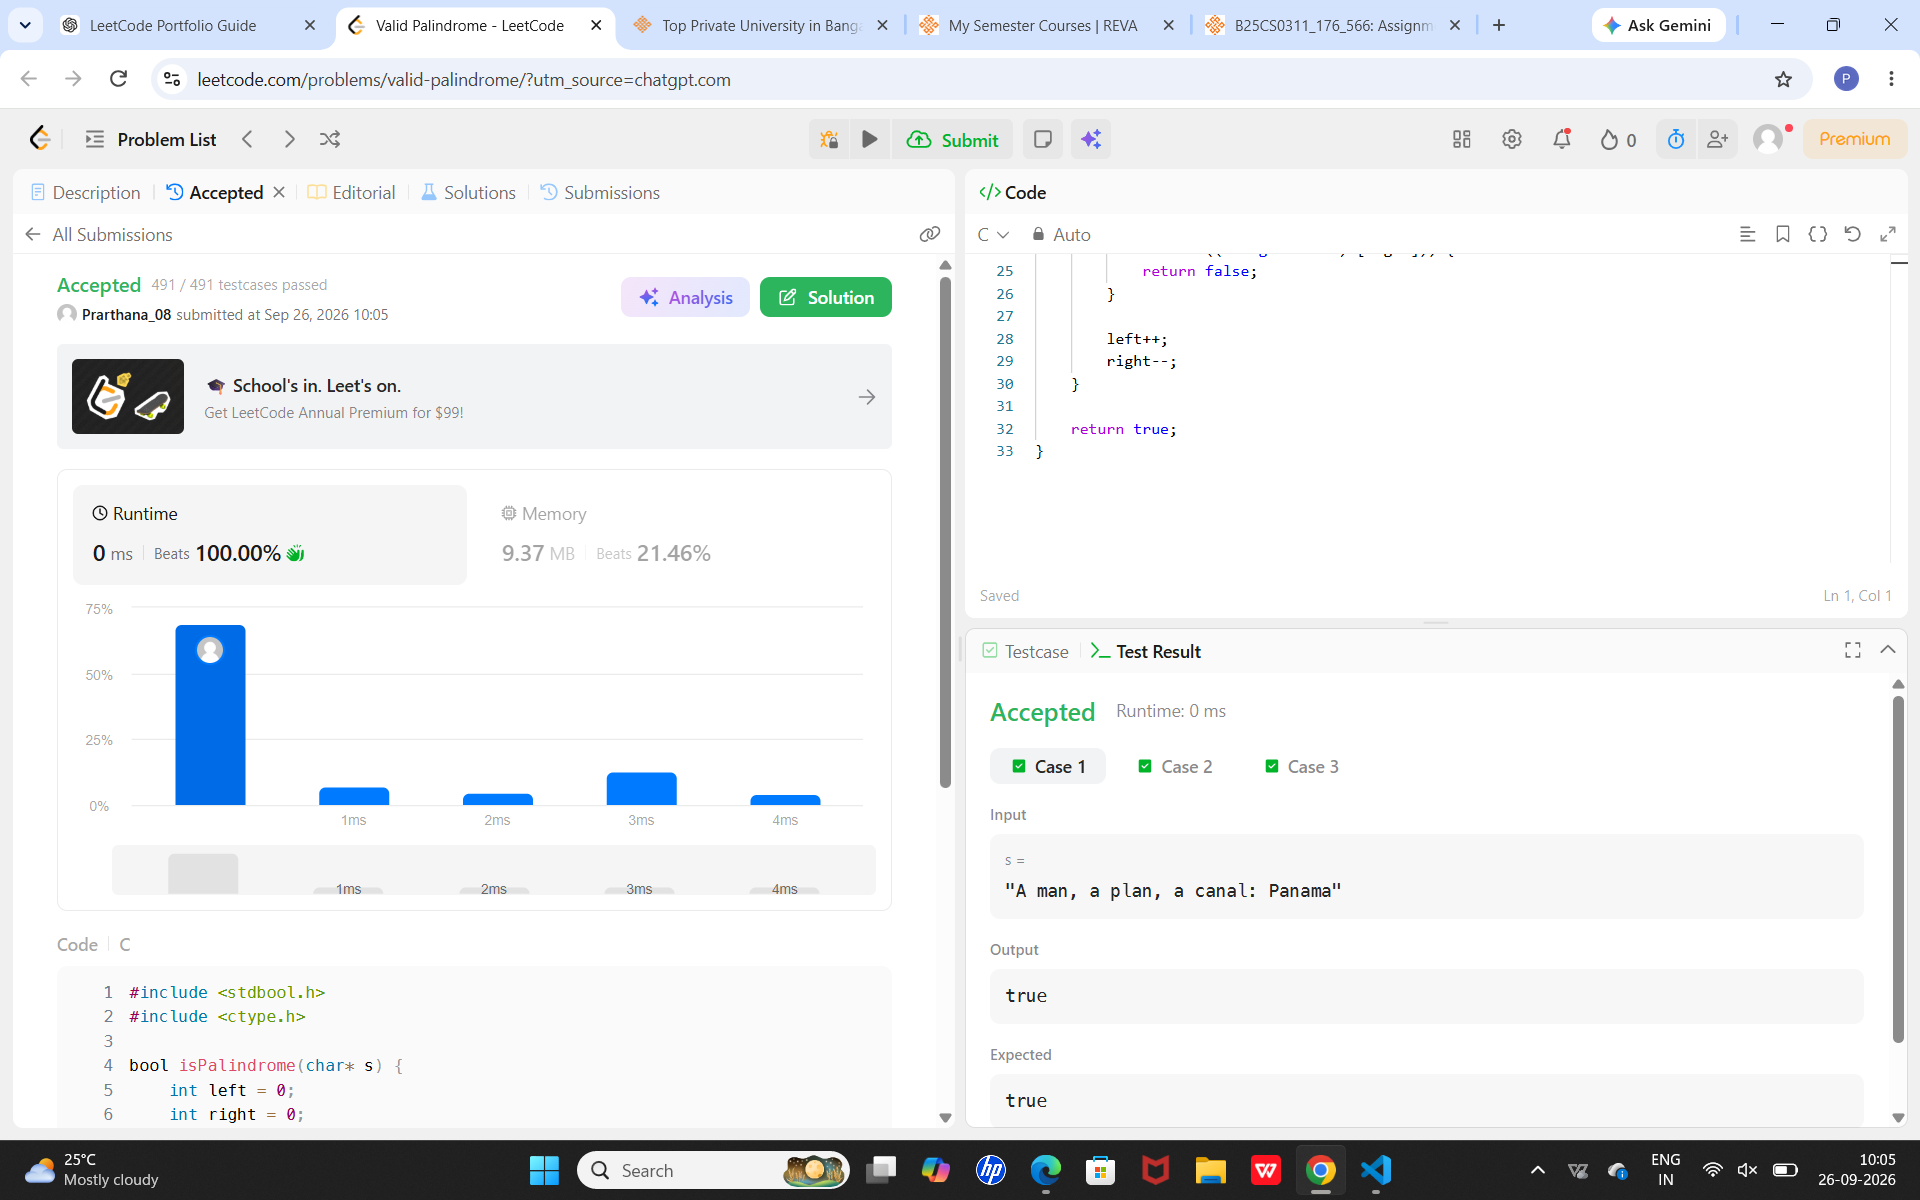
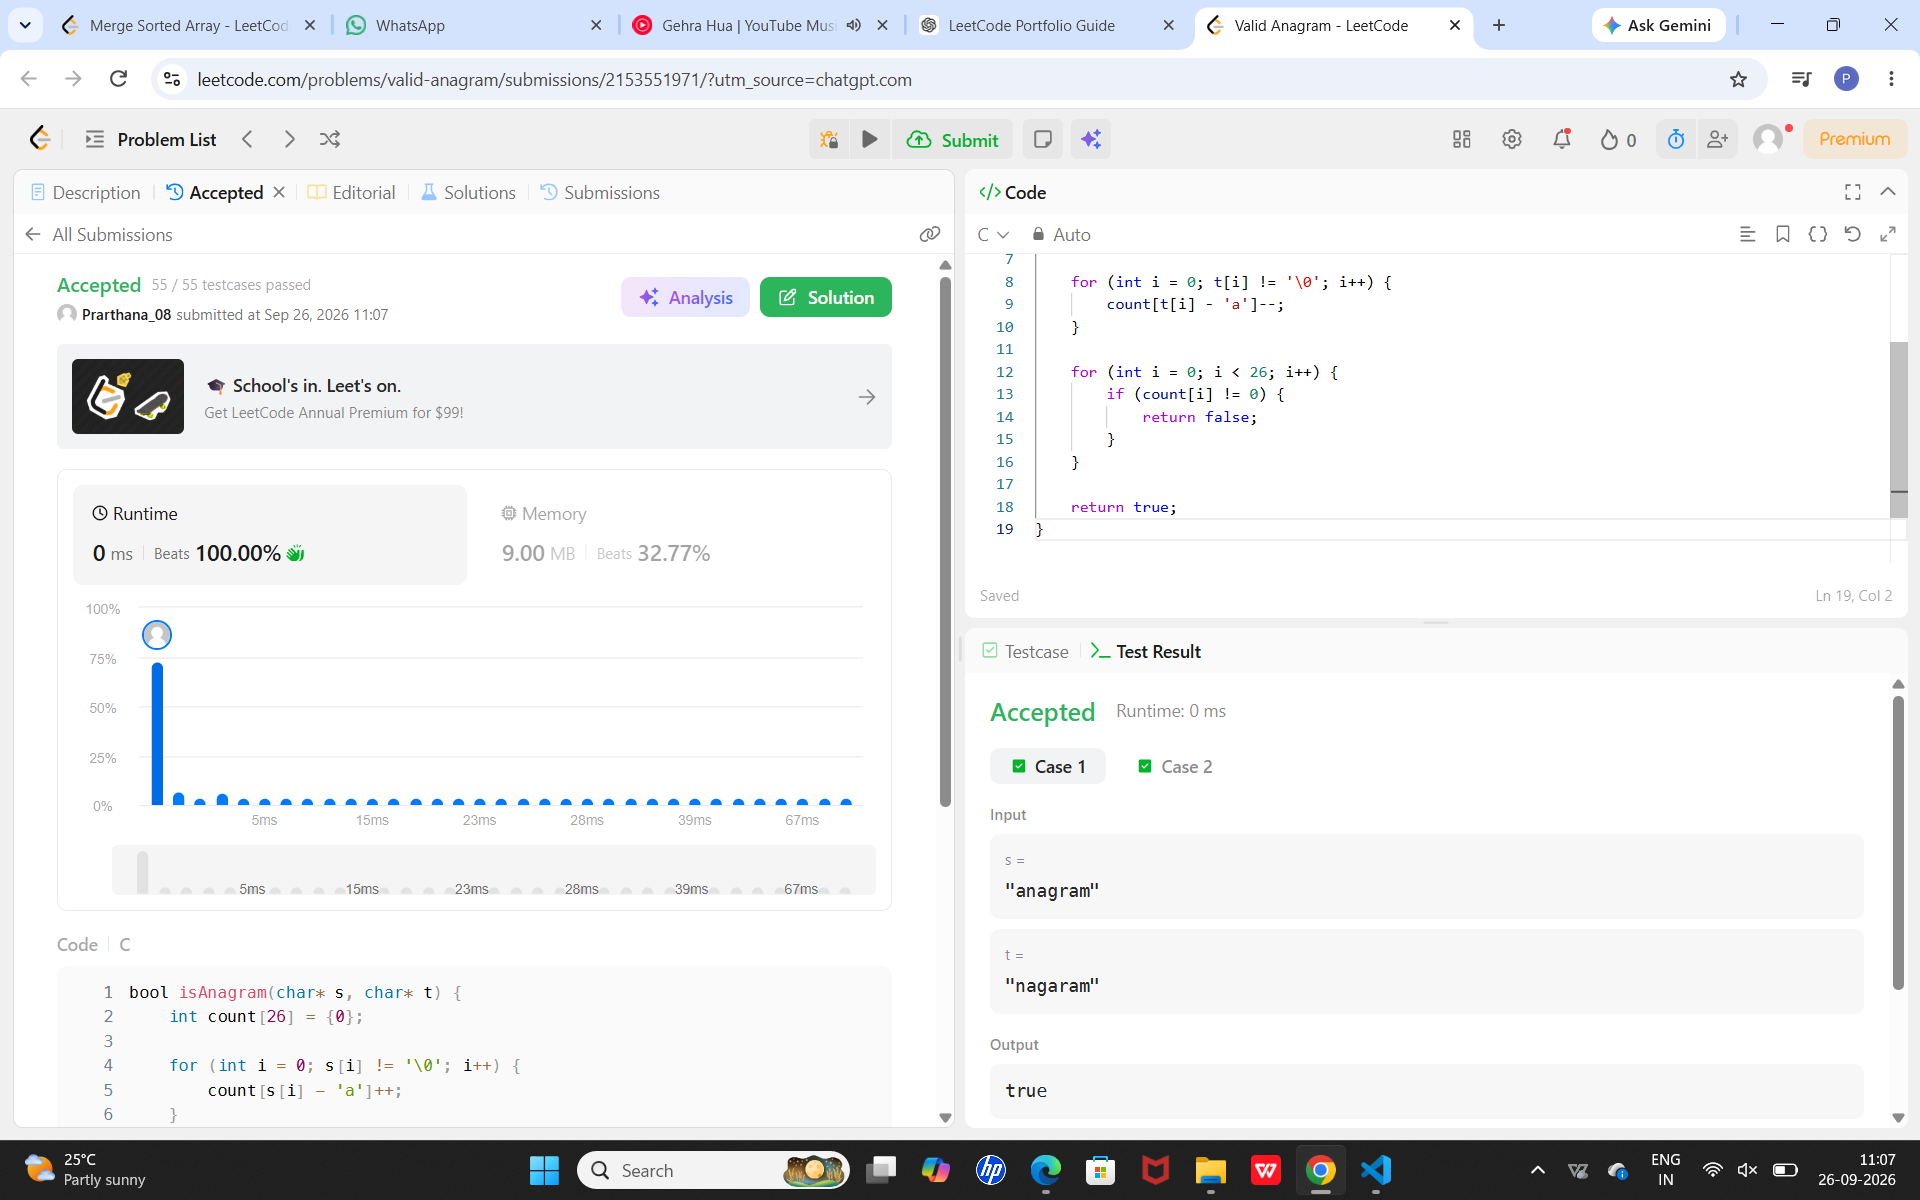
Add Valid Anagram solution and documentation

diff --git a/leetcode-solutions/arrays-strings/03-valid-anagram.c b/leetcode-solutions/arrays-strings/03-valid-anagram.c
@@ -1,0 +1,41 @@
+#include <stdio.h>
+#include <string.h>
+
+int isAnagram(char s[], char t[]) {
+    int count[26] = {0};
+
+    if (strlen(s) != strlen(t)) {
+        return 0;
+    }
+
+    for (int i = 0; s[i] != '\0'; i++) {
+        count[s[i] - 'a']++;
+        count[t[i] - 'a']--;
+    }
+
+    for (int i = 0; i < 26; i++) {
+        if (count[i] != 0) {
+            return 0;
+        }
+    }
+
+    return 1;
+}
+
+int main() {
+    char s1[] = "anagram";
+    char t1[] = "nagaram";
+
+    char s2[] = "rat";
+    char t2[] = "car";
+
+    printf("Test Case 1:\n");
+    printf("Input: s = %s, t = %s\n", s1, t1);
+    printf("Output: %s\n\n", isAnagram(s1, t1) ? "true" : "false");
+
+    printf("Test Case 2:\n");
+    printf("Input: s = %s, t = %s\n", s2, t2);
+    printf("Output: %s\n", isAnagram(s2, t2) ? "true" : "false");
+
+    return 0;
+}

diff --git a/leetcode-solutions/arrays-strings/03-valid-anagram.md b/leetcode-solutions/arrays-strings/03-valid-anagram.md
@@ -1,0 +1,34 @@
+## Problem: Valid Anagram (Easy)
+
+**Link:** https://leetcode.com/problems/valid-anagram/
+
+### Approach
+
+I used a frequency-counting array of size 26 to count the occurrences of each lowercase letter. I increment the count for every character in the first string and decrement it for every character in the second string. If all counts become zero, the two strings are anagrams.
+
+### Complexity
+
+* Time: O(n)
+* Space: O(1)
+
+### Notes
+
+The two strings must contain the same number of each character to be anagrams. I also check the character frequencies rather than sorting the strings, which gives a linear-time solution for lowercase English letters.
+
+### Test Cases
+
+**Test Case 1:**
+
+* Input: `s = "anagram", t = "nagaram"`
+* Expected Output: `true`
+* Actual Output: `true`
+
+**Test Case 2:**
+
+* Input: `s = "rat", t = "car"`
+* Expected Output: `false`
+* Actual Output: `false`
+
+### LeetCode Result
+
+Accepted.
